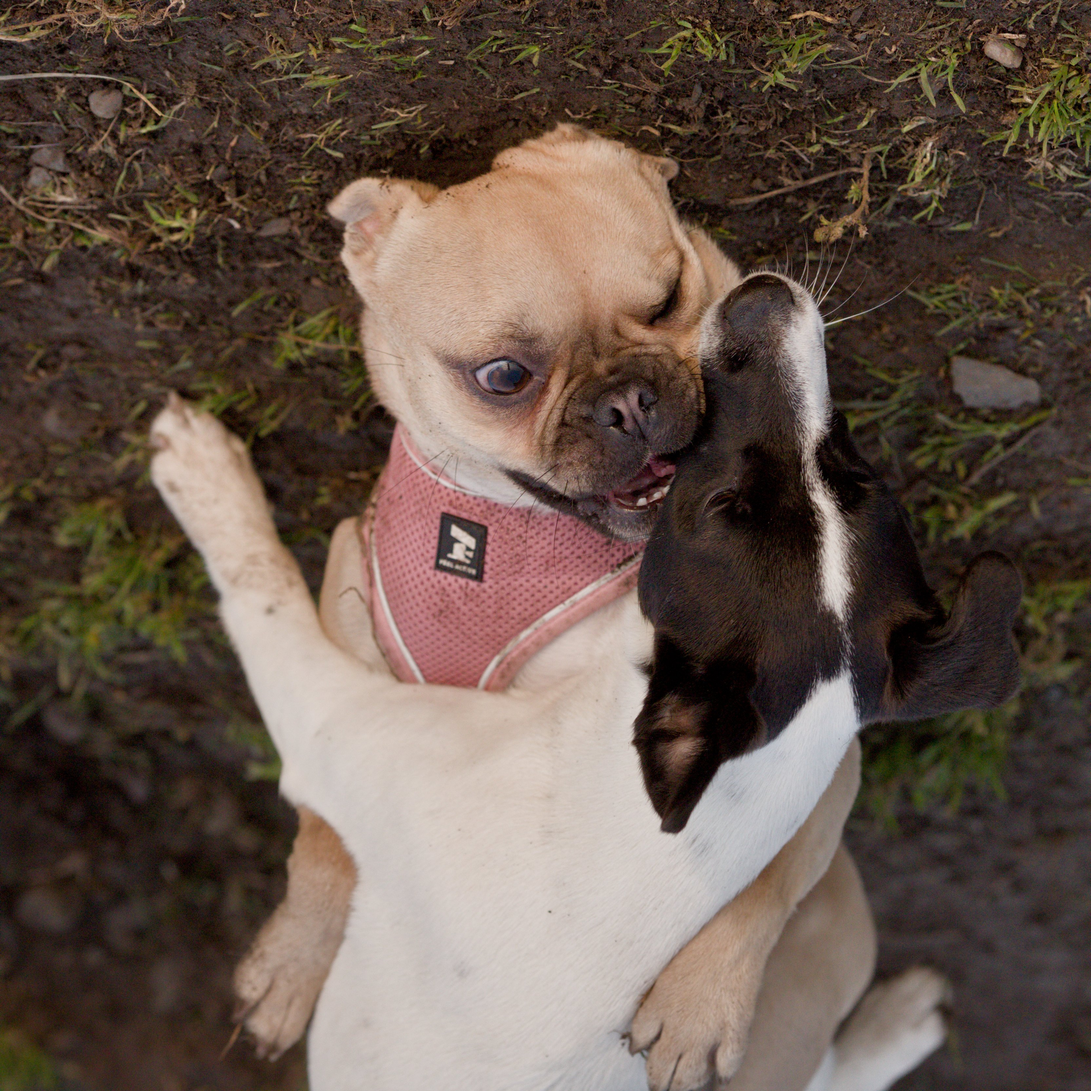
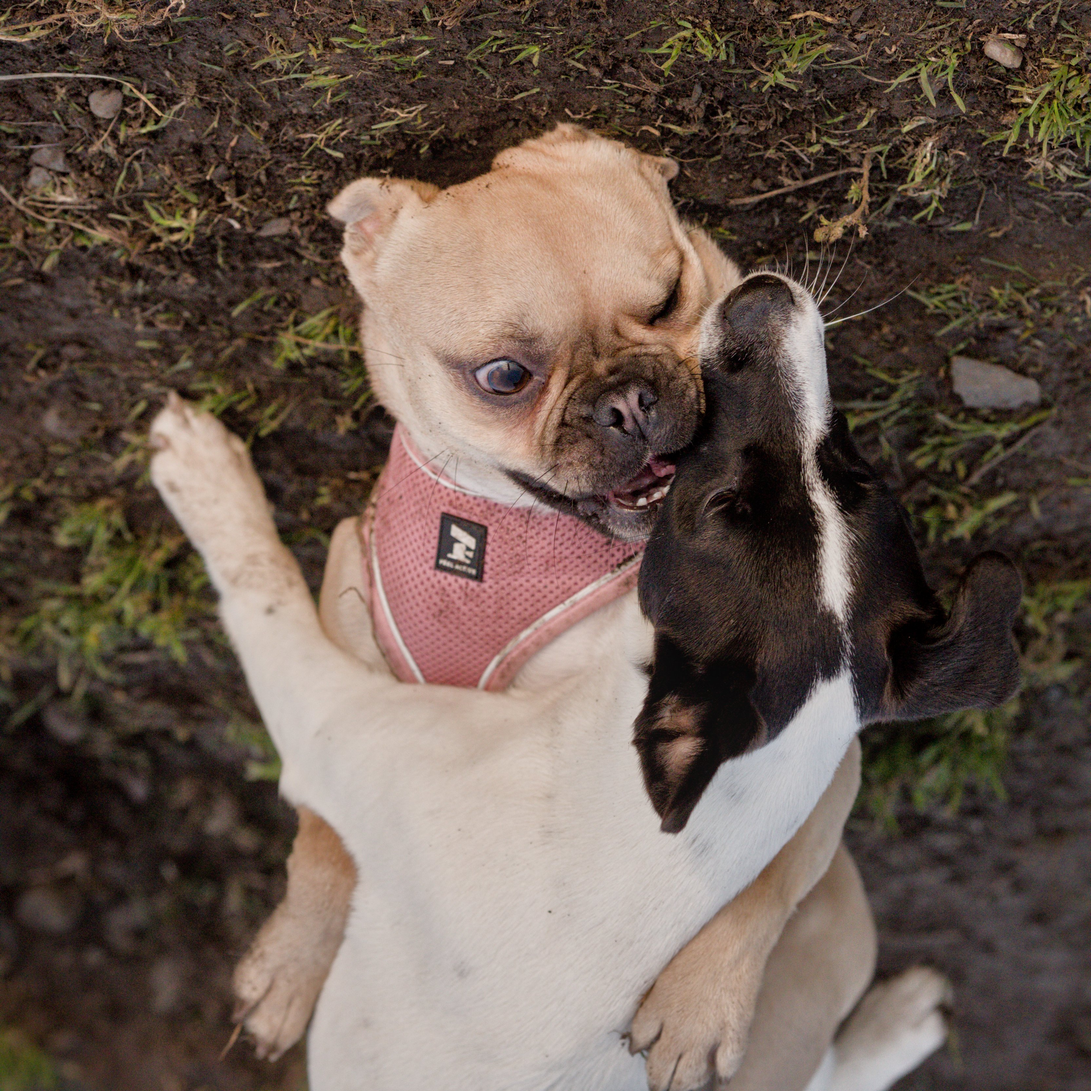
Re-apply the one image with height == width and its correct thumbnail

Changed region(s): [[0.5934, 0.6246, 0.6559, 0.7183], [0.1874, 0.7495, 0.2186, 0.7808], [0.1249, 0.5622, 0.1562, 0.5934]]

diff --git a/image_data.js b/image_data.js
@@ -153,7 +153,7 @@ const IMAGE_DATA = {
             "aperture": 5.0,
             "camera": "Canon EOS 5D Mark III",
             "capture_time": "2025:10:23 14:39:57",
-            "file_size": "2.1 MB",
+            "file_size": "2.4 MB",
             "focal": "135.0 mm",
             "image_height": 3330,
             "image_width": 3330,
